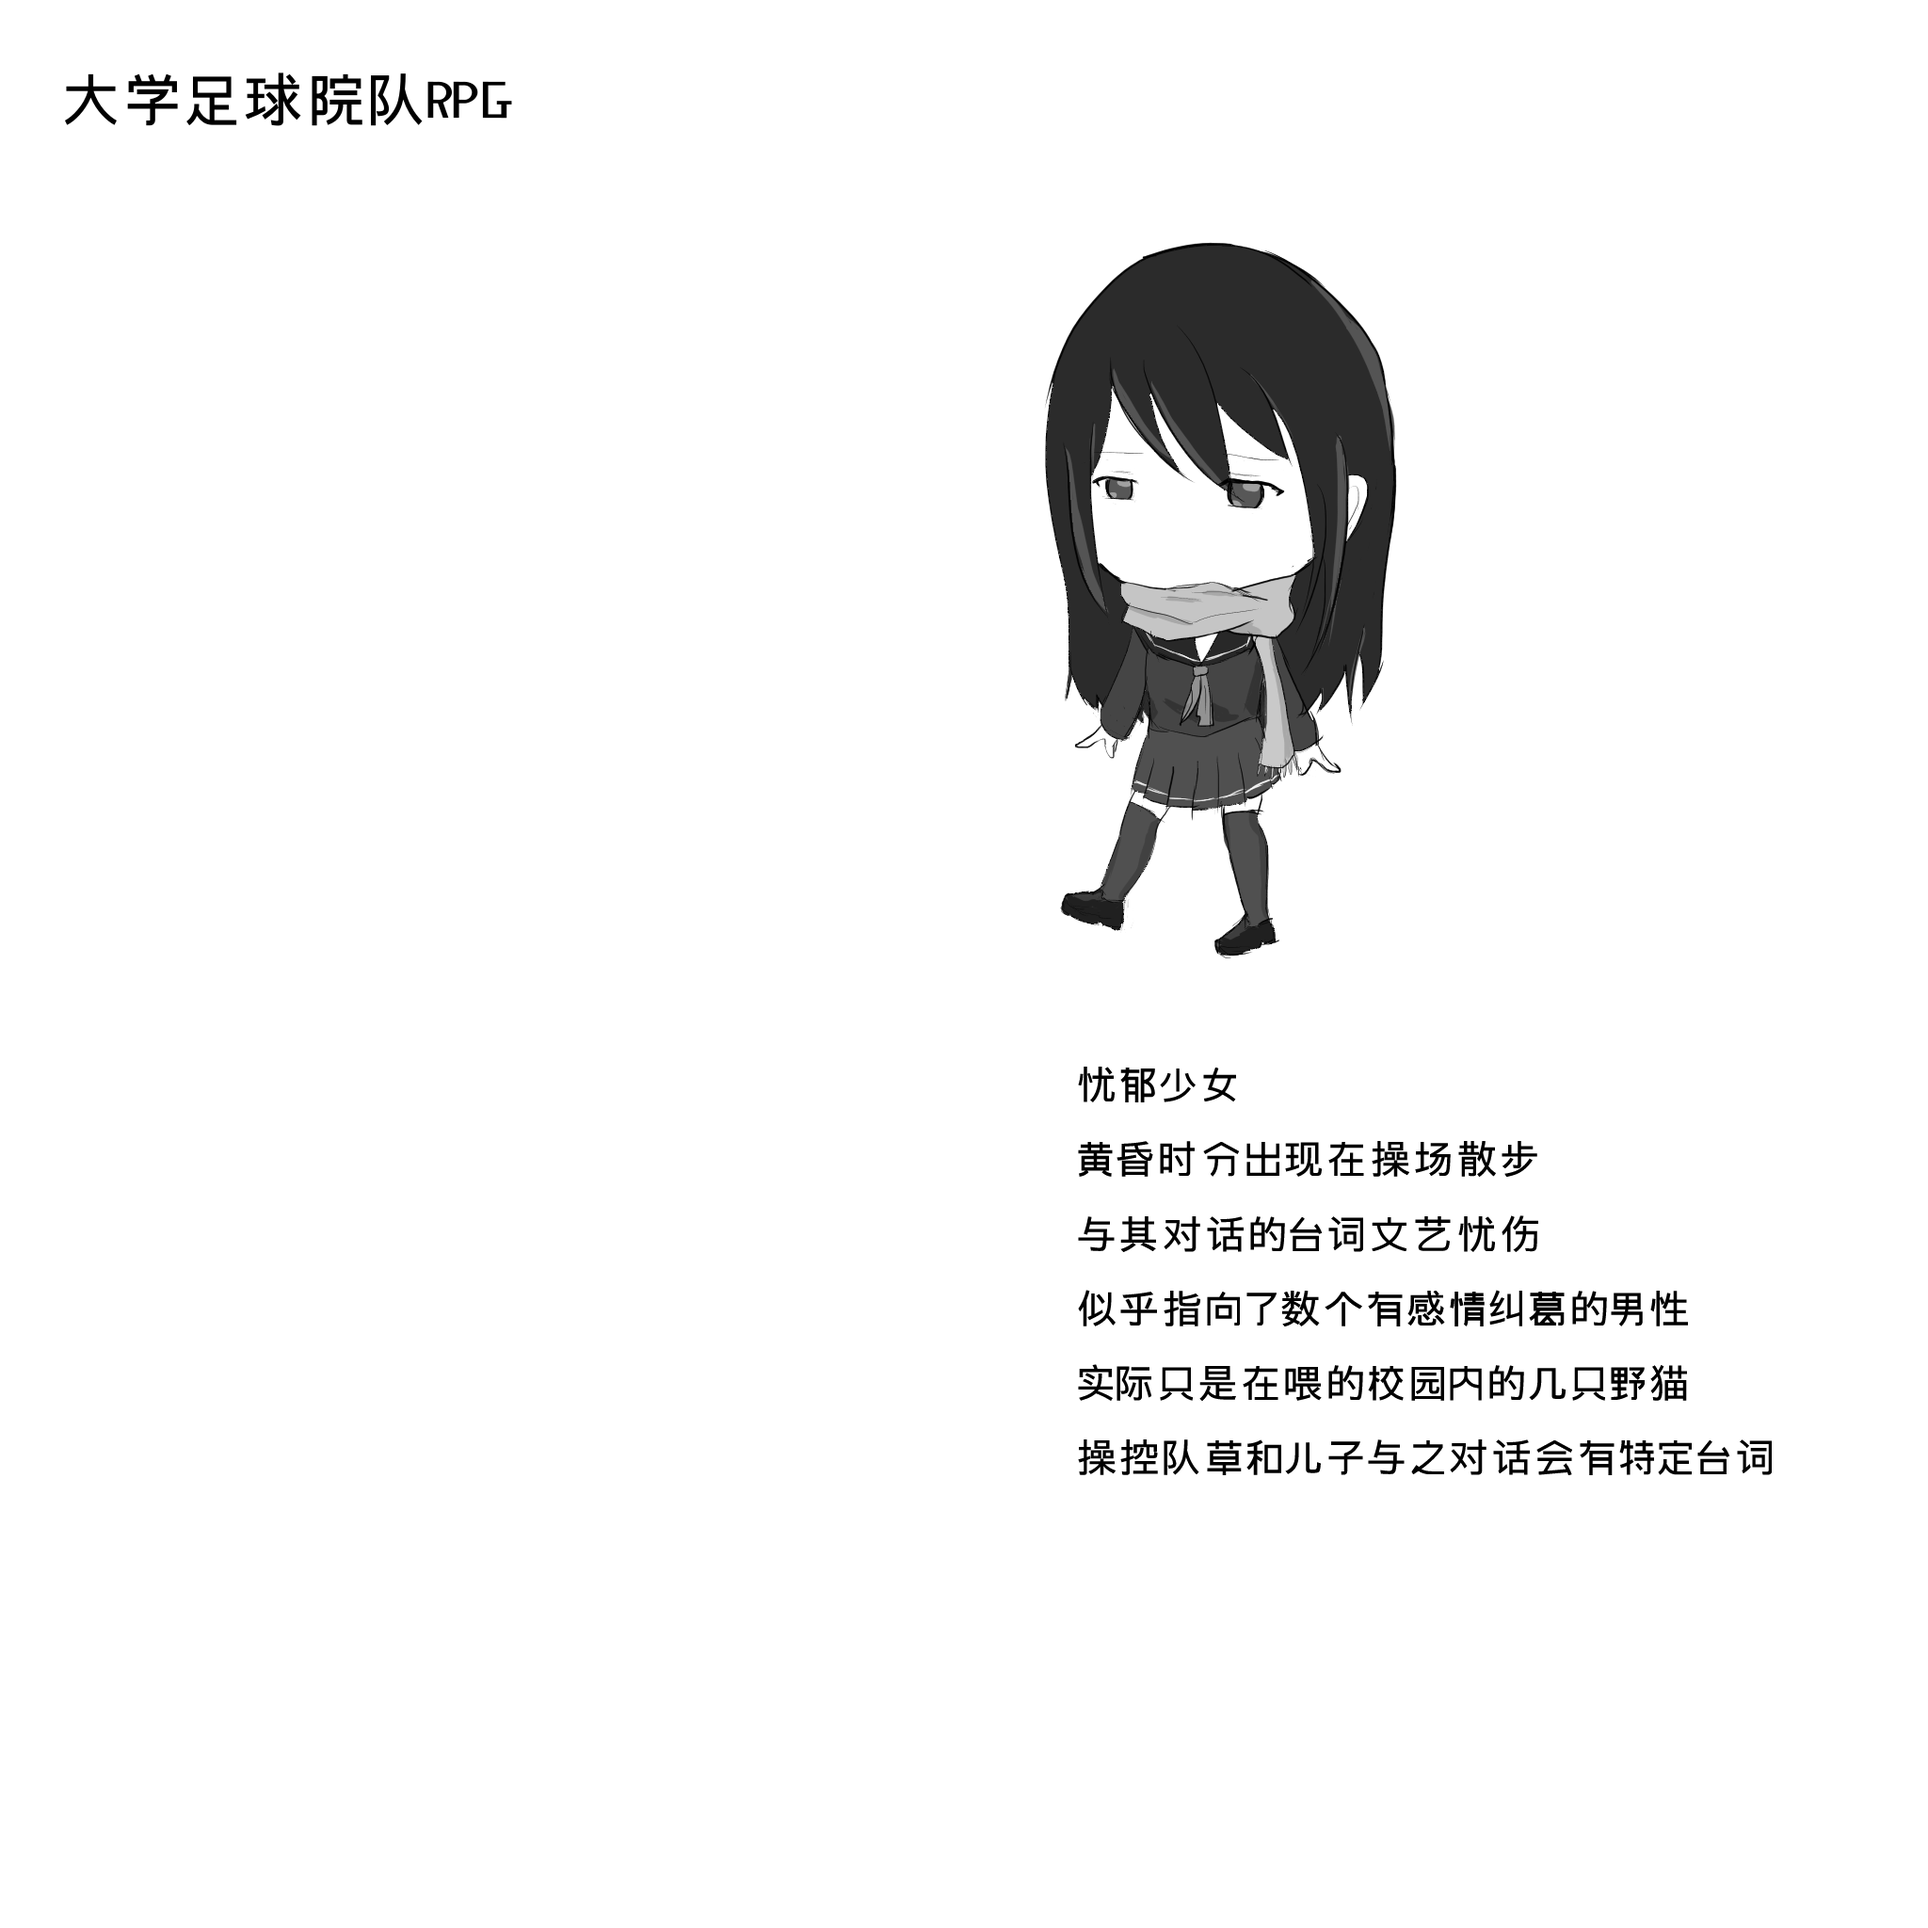
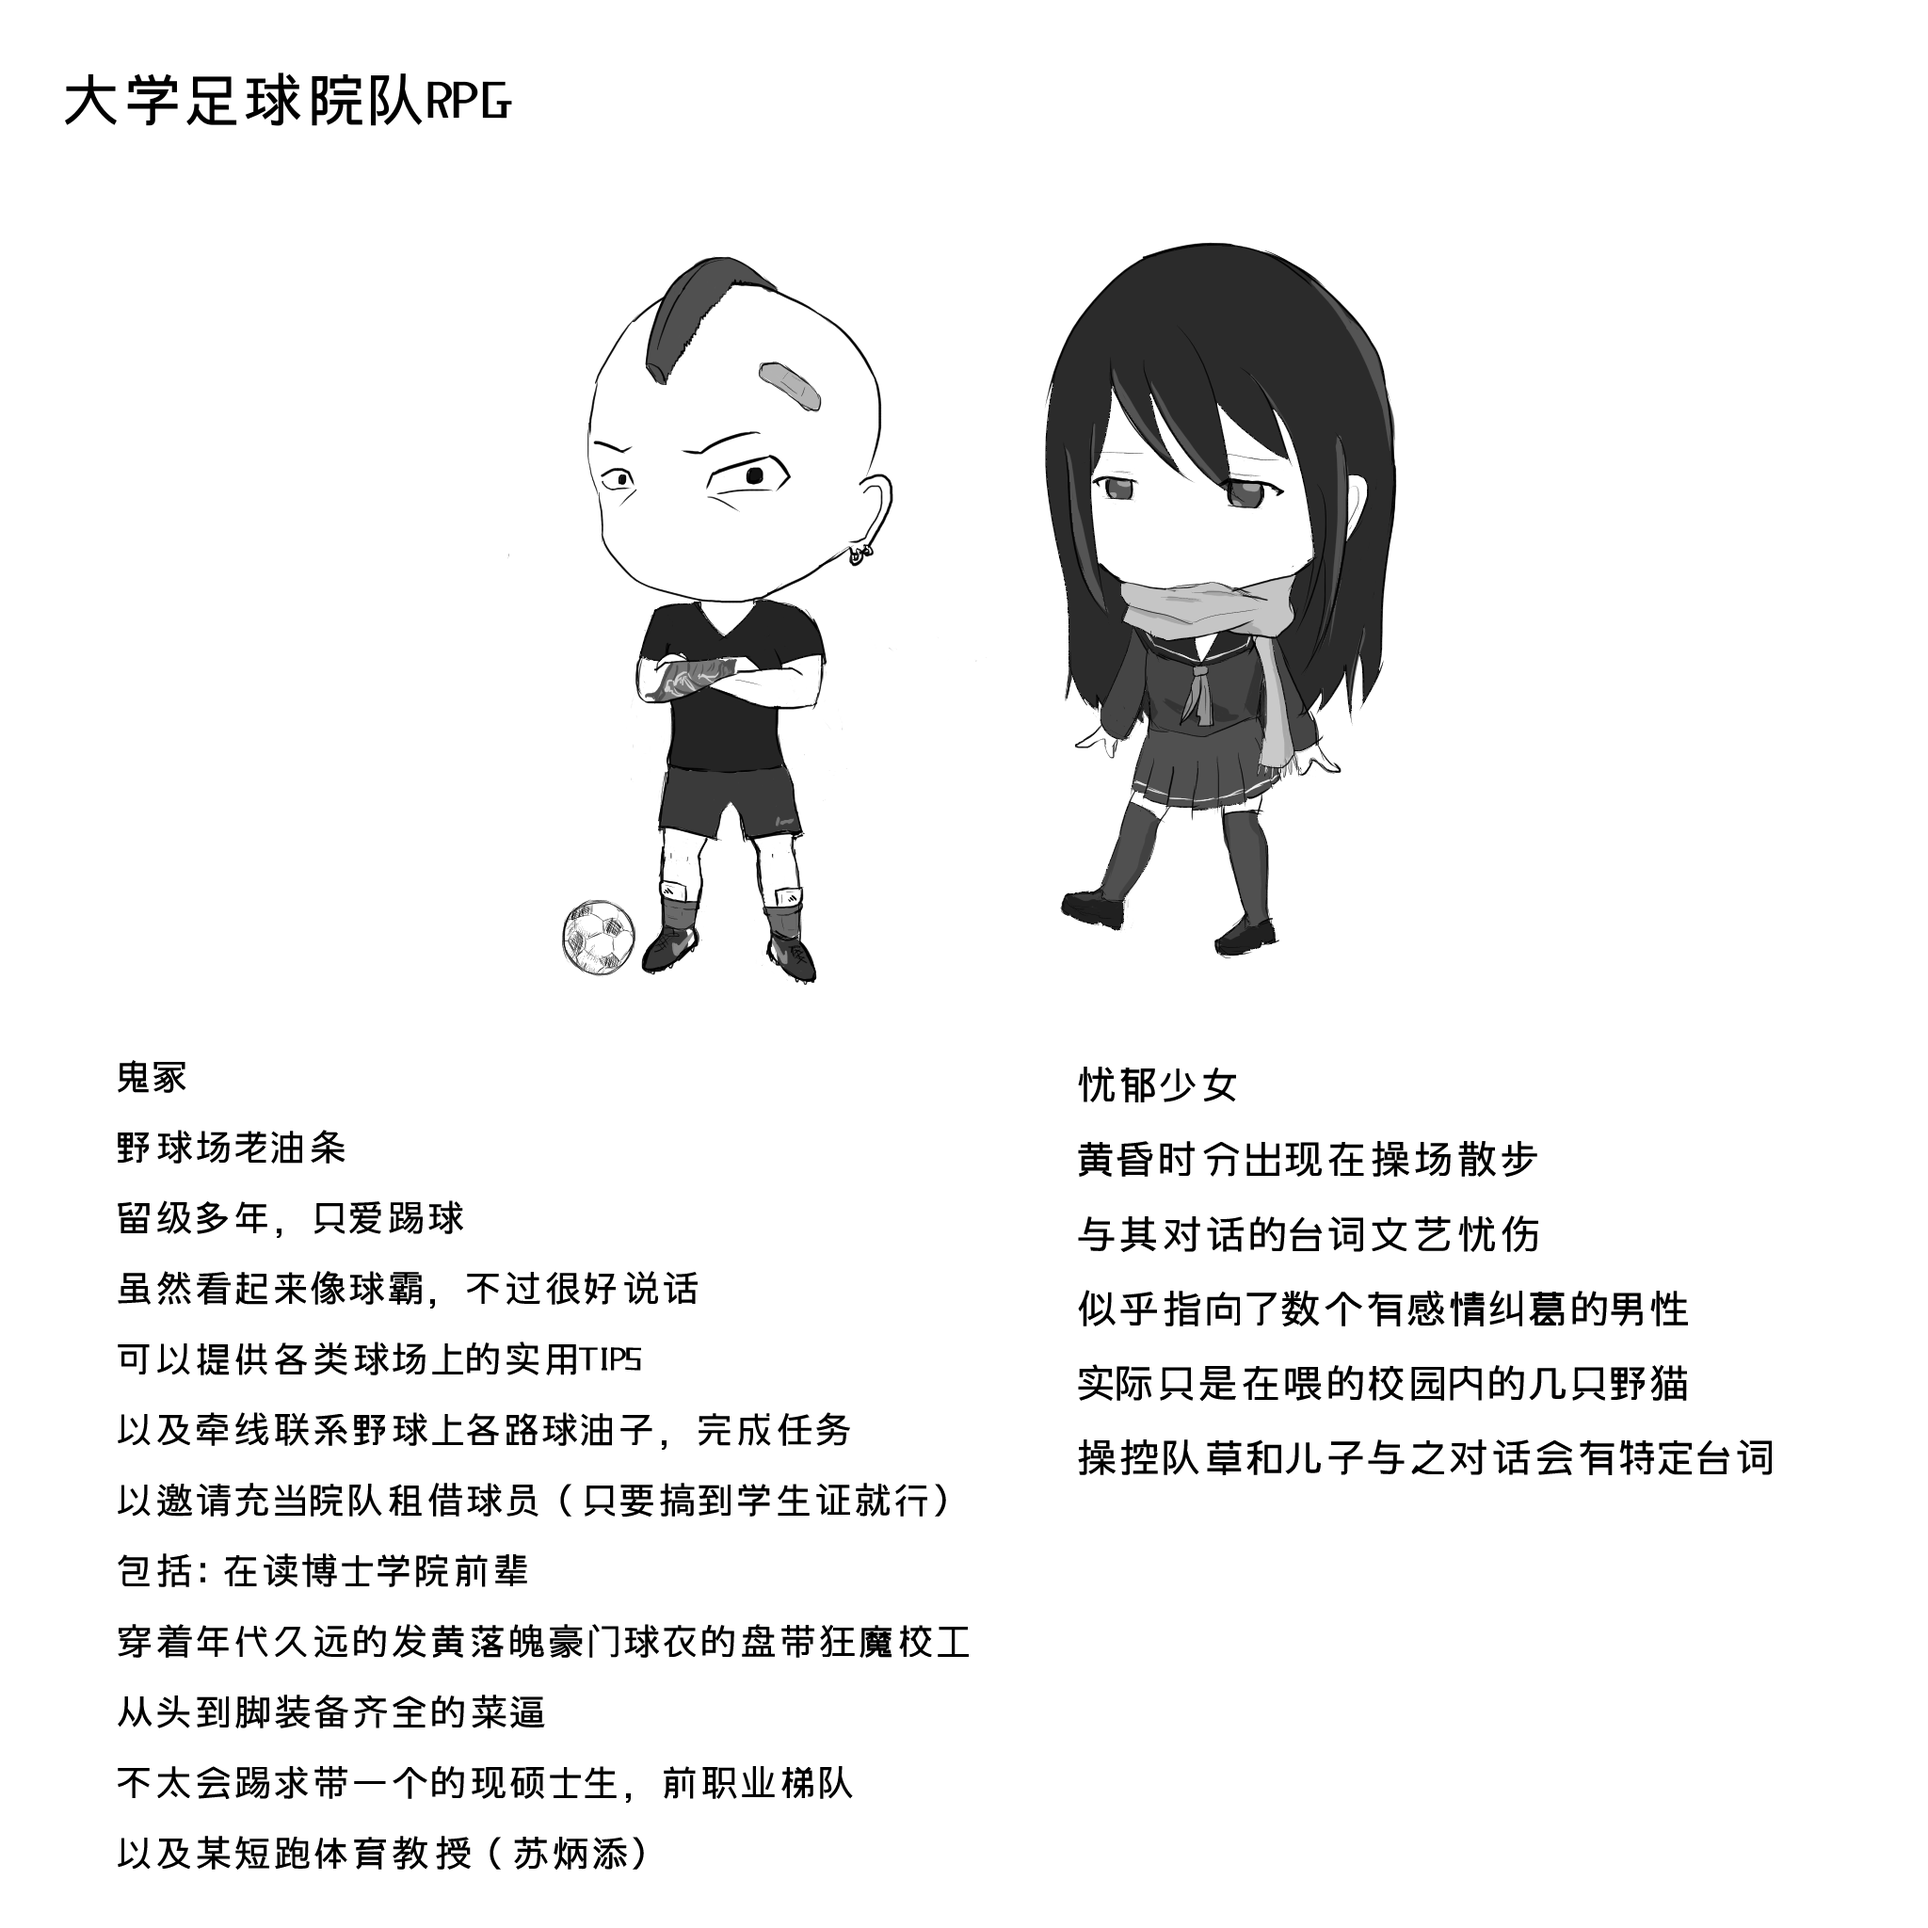
character concept update guizhong

diff --git a/_posts/college-soccer/2021-10-22-character-concept.md b/_posts/college-soccer/2021-10-22-character-concept.md
@@ -16,6 +16,6 @@ img: assets/college-soccer/character-concept.png
 {% include imgdesc.html url="assets/blog/cs/characters/4.png" description="2021-10-25" %}
 {% include imgdesc.html url="assets/blog/cs/characters/5.png" description="2021-11-01" %}
 {% include imgdesc.html url="assets/blog/cs/characters/6.png" description="2021-11-08, 15" %}
-{% include imgdesc.html url="assets/blog/cs/characters/7.png" description="2021-11-22" %}
+{% include imgdesc.html url="assets/blog/cs/characters/7.png" description="2021-11-22, 29" %}
 
 这几个月一直都在做和改比赛的gameplay。。
